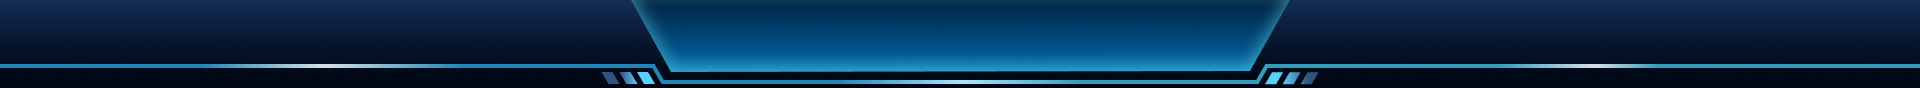
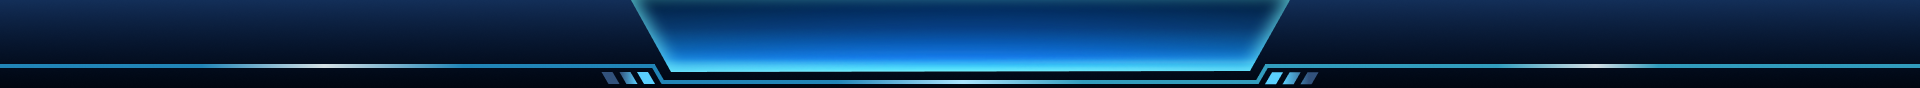
fix.

diff --git a/src/views/visualization/components/bigscreen/BigScreenHeader.vue b/src/views/visualization/components/bigscreen/BigScreenHeader.vue
@@ -8,13 +8,16 @@
     <div class="header-side left">
       <!-- 数据配置 -->
       <div v-if="showDataConfig" class="data-config-btn" @click="toggleConfig">
-        <svg width="24" height="24" viewBox="0 0 24 24" fill="none" xmlns="http://www.w3.org/2000/svg" class="computer-icon" style="filter: drop-shadow(0 0 5px rgba(0, 218, 255, 0.85));">
+        <svg width="24" height="24" viewBox="0 0 24 24" fill="none" xmlns="http://www.w3.org/2000/svg"
+          class="computer-icon" style="filter: drop-shadow(0 0 5px rgba(0, 218, 255, 0.85));">
           <!-- 电脑屏幕外框 -->
-          <rect x="2" y="3" width="20" height="13" rx="1.5" fill="rgba(0, 218, 255, 0.1)" stroke="#00daff" stroke-width="1.5"/>
+          <rect x="2" y="3" width="20" height="13" rx="1.5" fill="rgba(0, 218, 255, 0.1)" stroke="#00daff"
+            stroke-width="1.5" />
           <!-- 电脑底座支架 -->
-          <path d="M12,16 L10,21 L14,21 Z" fill="rgba(0, 218, 255, 0.25)" stroke="#00daff" stroke-width="1.2" stroke-linejoin="round"/>
+          <path d="M12,16 L10,21 L14,21 Z" fill="rgba(0, 218, 255, 0.25)" stroke="#00daff" stroke-width="1.2"
+            stroke-linejoin="round" />
           <!-- 屏幕内发光指示点 -->
-          <circle cx="12" cy="9.5" r="1.5" fill="#00daff" style="filter: drop-shadow(0 0 3px #00daff);"/>
+          <circle cx="12" cy="9.5" r="1.5" fill="#00daff" style="filter: drop-shadow(0 0 3px #00daff);" />
         </svg>
         <span class="btn-label">数据配置</span>
         <div class="caret-icon"></div>
@@ -22,39 +25,24 @@
 
       <template v-for="item in leftMenus" :key="item.key">
         <div v-if="item.key === 'task'" class="task-nav-wrapper">
-          <div
-            class="nav-btn task-nav-btn"
-            :class="{ active: isMenuActive(item.key) }"
-            :style="{ backgroundImage: `url(${isMenuActive(item.key) ? item.activeBg : item.bg})` }"
-            role="button"
-            @click="selectTaskEntry('issue')"
-          >
+          <div class="nav-btn task-nav-btn" :class="{ active: isMenuActive(item.key) }"
+            :style="{ backgroundImage: `url(${isMenuActive(item.key) ? item.activeBg : item.bg})` }" role="button"
+            @click="selectTaskEntry('issue')">
             <span class="btn-label"></span>
           </div>
           <transition name="task-subnav">
             <div v-if="isMenuActive(item.key)" class="task-subnav" role="tablist">
-              <button
-                v-for="option in taskEntryOptions"
-                :key="option.key"
-                class="task-subnav-option"
-                :class="{ active: activeTaskEntry === option.key }"
-                type="button"
-                role="tab"
-                :aria-selected="activeTaskEntry === option.key"
-                @click="selectTaskEntry(option.key)"
-              >
+              <button v-for="option in taskEntryOptions" :key="option.key" class="task-subnav-option"
+                :class="{ active: activeTaskEntry === option.key }" type="button" role="tab"
+                :aria-selected="activeTaskEntry === option.key" @click="selectTaskEntry(option.key)">
                 {{ option.label }}
               </button>
             </div>
           </transition>
         </div>
-        <div
-          v-else
-          class="nav-btn"
-          :class="{ active: isMenuActive(item.key) }"
+        <div v-else class="nav-btn" :class="{ active: isMenuActive(item.key) }"
           :style="{ backgroundImage: `url(${isMenuActive(item.key) ? item.activeBg : item.bg})` }"
-          @click="handleMenuClick(item.key)"
-        >
+          @click="handleMenuClick(item.key)">
           <span class="btn-label"></span>
         </div>
       </template>
@@ -94,8 +82,8 @@
           <div class="form-item">
             <div class="item-label">统计数据范围</div>
             <div class="field-shell">
-              <el-select v-model="configForm.dataScope" size="large" :teleported="false"
-                class="custom-select" popper-class="big-screen-select-popper">
+              <el-select v-model="configForm.dataScope" size="large" :teleported="false" class="custom-select"
+                popper-class="big-screen-select-popper">
                 <el-option v-for="item in dataScopeOptions" :key="item.value" :label="item.label" :value="item.value" />
               </el-select>
             </div>
@@ -119,7 +107,9 @@
       </div>
     </div>
     <div class="header-center">
-      <h1 @click="handleGoHome">风险监测预警信息化平台</h1>
+      <h1 @click="handleGoHome">
+        <img src="@/assets/imgs/echarts/首页/title.png" height="72px" alt="" />
+      </h1>
     </div>
     <div class="header-side right">
       <div class="nav-btn" v-for="item in rightMenus" :key="item.key" :class="{ active: activeMenu === item.key }"
